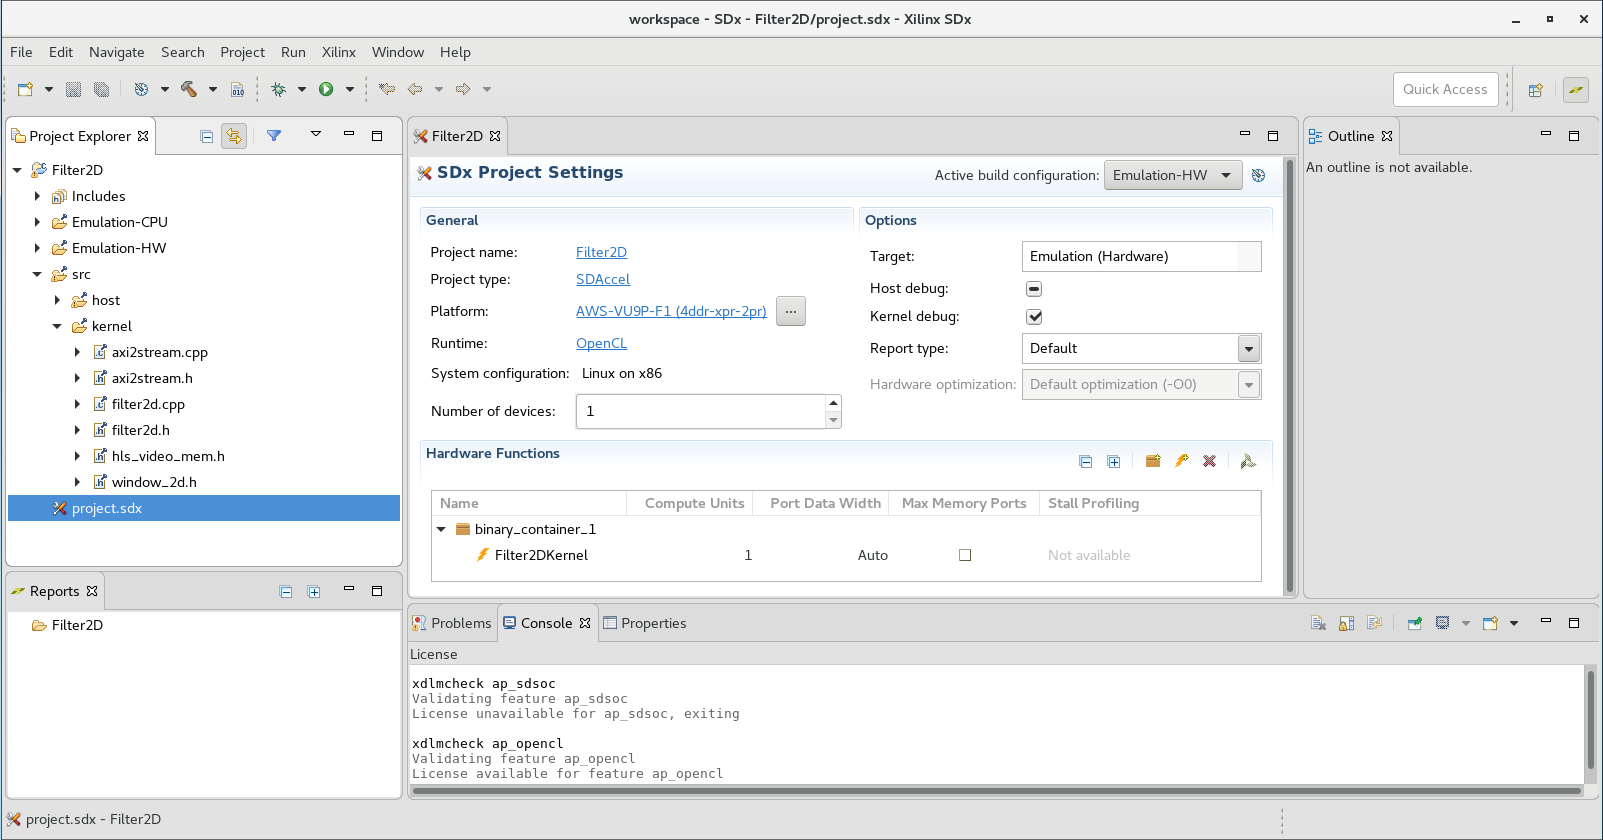
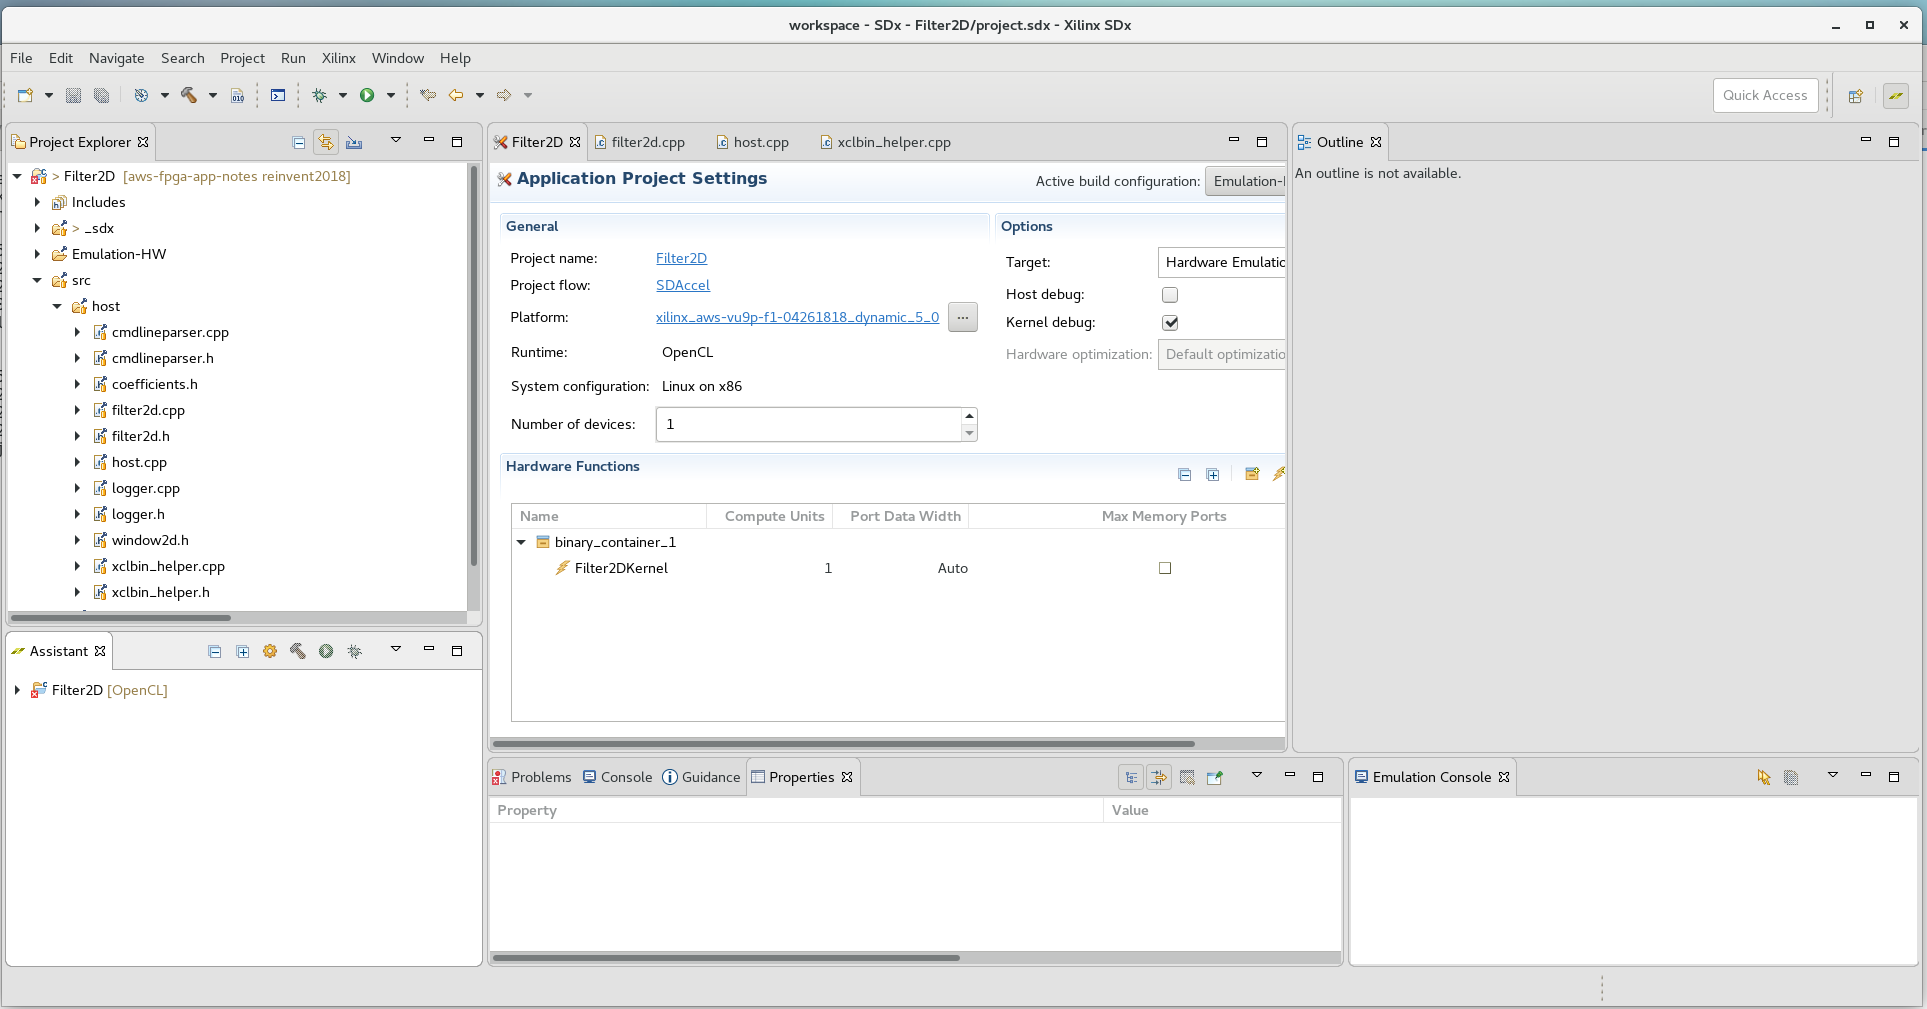
updating workspace creation instructions and screen shots

Changed region(s): [[0.0, 0.0, 1.0, 1.0], [0.3431, 0.4952, 0.5303, 0.5262], [0.4367, 0.8357, 0.4679, 0.8667]]

diff --git a/reInvent18_Developer_Workshop/FILTER2D_Lab.md b/reInvent18_Developer_Workshop/FILTER2D_Lab.md
@@ -36,15 +36,7 @@ Please also note that although the entire tutorial is performed on an F1 instanc
     ```
 	*Note: the sdaccel_setup.sh script might generate warning messages, but these can be safely ignored.*
 
-
-1. Launch the SDAccel GUI and open the predefined workspace containing the Filter2D project: 
-    ```bash
-    cd ~/aws-fpga-app-notes/reInvent18_Developer_Workshop/filter2d
-    sdx -workspace workspace
-    ```
-	*Note: a warning message may appear if loading Eclipse takes longer than expected. Click **Wait** to dismiss it.*
-
-	The predefined workspace takes care of the following setup steps:
+1. Now you will create a workspace that includes the following setup steps:
 	* Creating a new project called **Filter2D**
 	* Adding the AWS-VU9P-F1 platform to the project and selecting it as the target for this project 
 	* Importing the host and kernel source files
@@ -53,9 +45,34 @@ Please also note that although the entire tutorial is performed on an F1 instanc
 	* Setting the **Filter2DKernel** function to be a custom hardware function (also referred to as kernel).
 	* Setting command line arguments to be passed to the application when it is executed.	
 
-	Most of this information is displayed in the **SDX Project Settings** window which is prominently displayed in the center of the GUI. It indicates the project name (**Filter2D**), the selected platform (**AWS-VU9-F1**) and the FPGA binary container (**binary_container_1**) with the hardware function (**Filter2DKernel**).  
+	
+1. Launch the SDAccel GUI and and create a new workspace in the current directory: 
+    ```bash
+    cd ~/aws-fpga-app-notes/reInvent18_Developer_Workshop/filter2d
+    sdx -workspace workspace
+    ```
+	*Note: a warning message may appear if loading Eclipse takes longer than expected. Click **Wait** to dismiss it.*
+
+1. The SDAccel GUI comes up and displays the Welcome screen. Click **Create SDx Project**, then select **Application** as the new project type and click **Next**.
+
+1. Name your project **Filter2D** and click **Next**.
+
+1. In the **Platform** window click **Add Custom Platform...** then browse into the ```~/aws-fpga/SDAccel/aws_platform``` directory and then click **OK**.
+
+1. Back in the **Platform** window choose the newly added AWS VU9P F1 custom platform and click **Next**.
+
+1. In the **System configuration** window, keep the default settings and click **Next**.
+
+1. The **Templates** window has a list of possible templates that you can use to get started in building an SDAccel project. For this tutorial, select **Empty Application** and click **Finish**.
+
+
+1. Most of this information will be displayed in the **SDX Project Settings** window which is prominently displayed in the center of the GUI. It indicates the project name (**Filter2D**), the selected platform (**AWS-VU9-F1**) and the FPGA binary container (**binary_container_1**) with the hardware function (**Filter2DKernel**).  
  
     ![](./images/filter2d_lab/SDxWindows.PNG)
+
+You have now successfully created a new SDAccel project called **Filter2D** for the AWS F1 platform. This is prominently displayed in the SDx Project Settings window in the center of the GUI.
+
+
 
 1. Familiarize yourself with the different sections of the GUI layout:
     * The **main menu** bar is located on the top. This menu bar allows direct access to all general project setup and GUI window management tasks. As most tasks are performed through the different setup windows, the main menu is mostly used to recover from accidently closed windows or to access the tool help.
@@ -65,6 +82,57 @@ Please also note that although the entire tutorial is performed on an F1 instanc
     * The **Outline** viewer on the right hand side provides a high-level, or outline view, of the contents of a selected file. The content of the outline varies depending on the file currently selected in the main window.
     * In the bottom left section is the **Reports window**. This allows easy access to all reports generated by SDAccel. 
     * The remaining windows along the bottom of the main window accommodate the various consoles and terminals which contain output information relating to individual SDAccel executables. Typical output examples are compilation errors or the tool output when running.  
+
+### Importing Design Files
+
+1. In the **Project Explorer** window, click the **Import Sources** button ![](images/ImportSRC.png).
+
+1. In the **Import Sources** dialog box, click **Browse** and navigate to the ```/home/centos/aws-fpga-app-notes/reInvent18_Developer_Workshop/filter2D/src``` directory. Click **OK**.
+
+1. Click **Select All** and then **Finish**.
+
+1. You can now expand the **src** directory in the **Project Explorer** to see that all the files are now populated in the project.
+
+### Selecting Functions for HW Acceleration
+
+Now that you have imported all the necessary source files, you need specify which function(s) should be mapped to hardware for FPGA acceleration.
+
+1. In the **Hardware Functions** section of the **SDx Project Settings** window, click the **Add Hardware** button ![](images/AddHW.png). 
+
+1. SDAccel analyzes the design for all possible kernels in the design, as well as the ability to filter the list if there are multiple kernels. Select the **Filter2DKernel** function and click **OK**. 
+
+1. Notice that a binary container (named **binary_container_1** by default) is added to the project and the **Filter2DKernel** kernel is added to this container. 
+
+1. The code for the kernel used in this example is distributed across different files. SDAccel must be told what those files are. In the **Hardware Functions** section of the GUI, right click on the **Filter2DKernel** and select **Select Extra Source Files...**.
+
+1. Click on the **Filter2D > src > kernel** directory and select the three .cpp files (axi2stream.cpp, filter2d.cpp and readcoeffs.cpp) then click **OK**.
+
+### Defining GCC Compilation Options
+
+The host application created in this project leverages OpenCV and OpenMP. Therefore special compilation and linking options must be provided.
+
+1. In the **Project Explorer**, right click on the **Filter2D** project and select **Properties**
+
+1. In the **Properties** window, select **C/C++ Build > Settings**
+
+1. In the **Configuration** pull down, select **[All Configurations]**.
+
+1. In the **SDx GCC Host Compiler** options, add ```-fopenmp``` to the **Expert settings** dialog and click **Apply**.
+
+1. In the **SDx GCC Host Linker** options, add ```-fopenmp -Wl,--as-needed -Wl,-rpath,${XILINX_SDX}/lnx64/tools/opencv -L${XILINX_SDX}/lnx64/tools/opencv -lopencv_core -lopencv_highgui``` to the **Expert settings** dialog and click **Apply**.
+
+1. Click **OK** to save and close the custom GCC options.
+
+### Defining Run Configuration options
+
+The host application created in this project takes in various command line arguments. In this step, you will define what flags SDAccel pass to the application when it executes it.
+
+1. Go to the **Run** menu and select **Run Configurations...** .
+
+1. Select the **Arguments** tab 
+
+1. Add ```-x ../binary_container_1.xclbin -i ../../../../img/test.bmp -n 1``` in the **Program Arguments** box and click **Close**.
+
 
 ### Source code files used in this example
 
